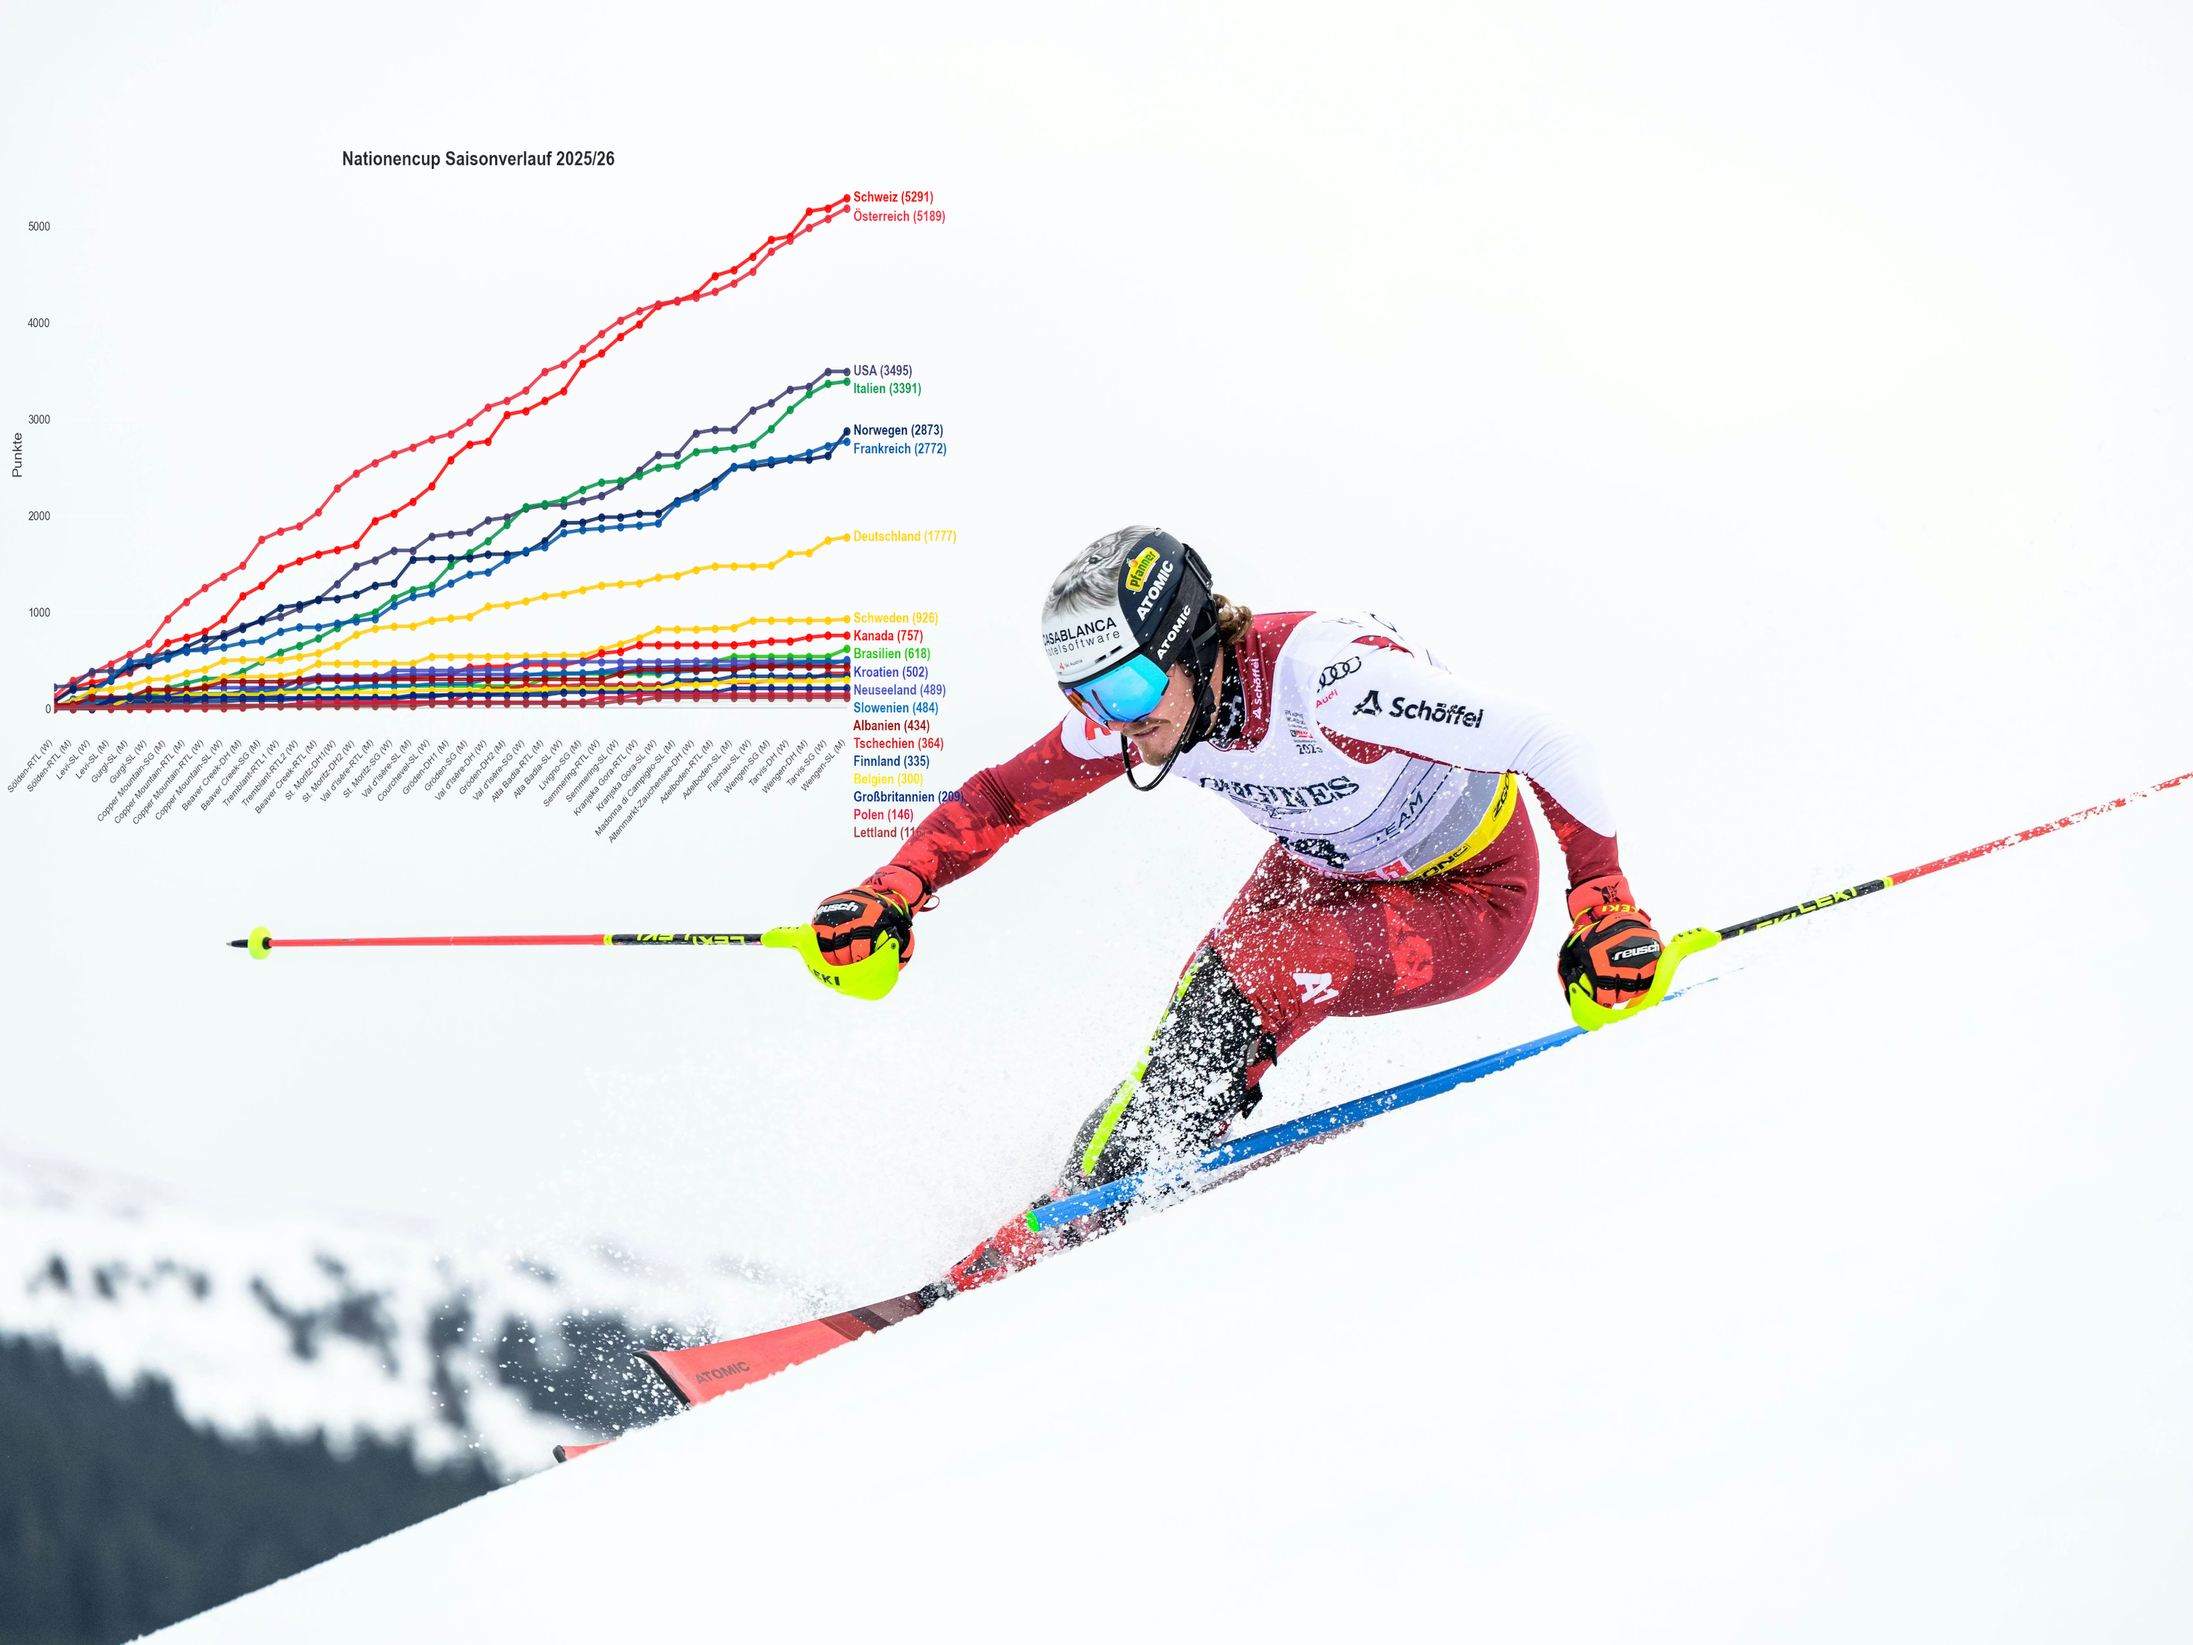
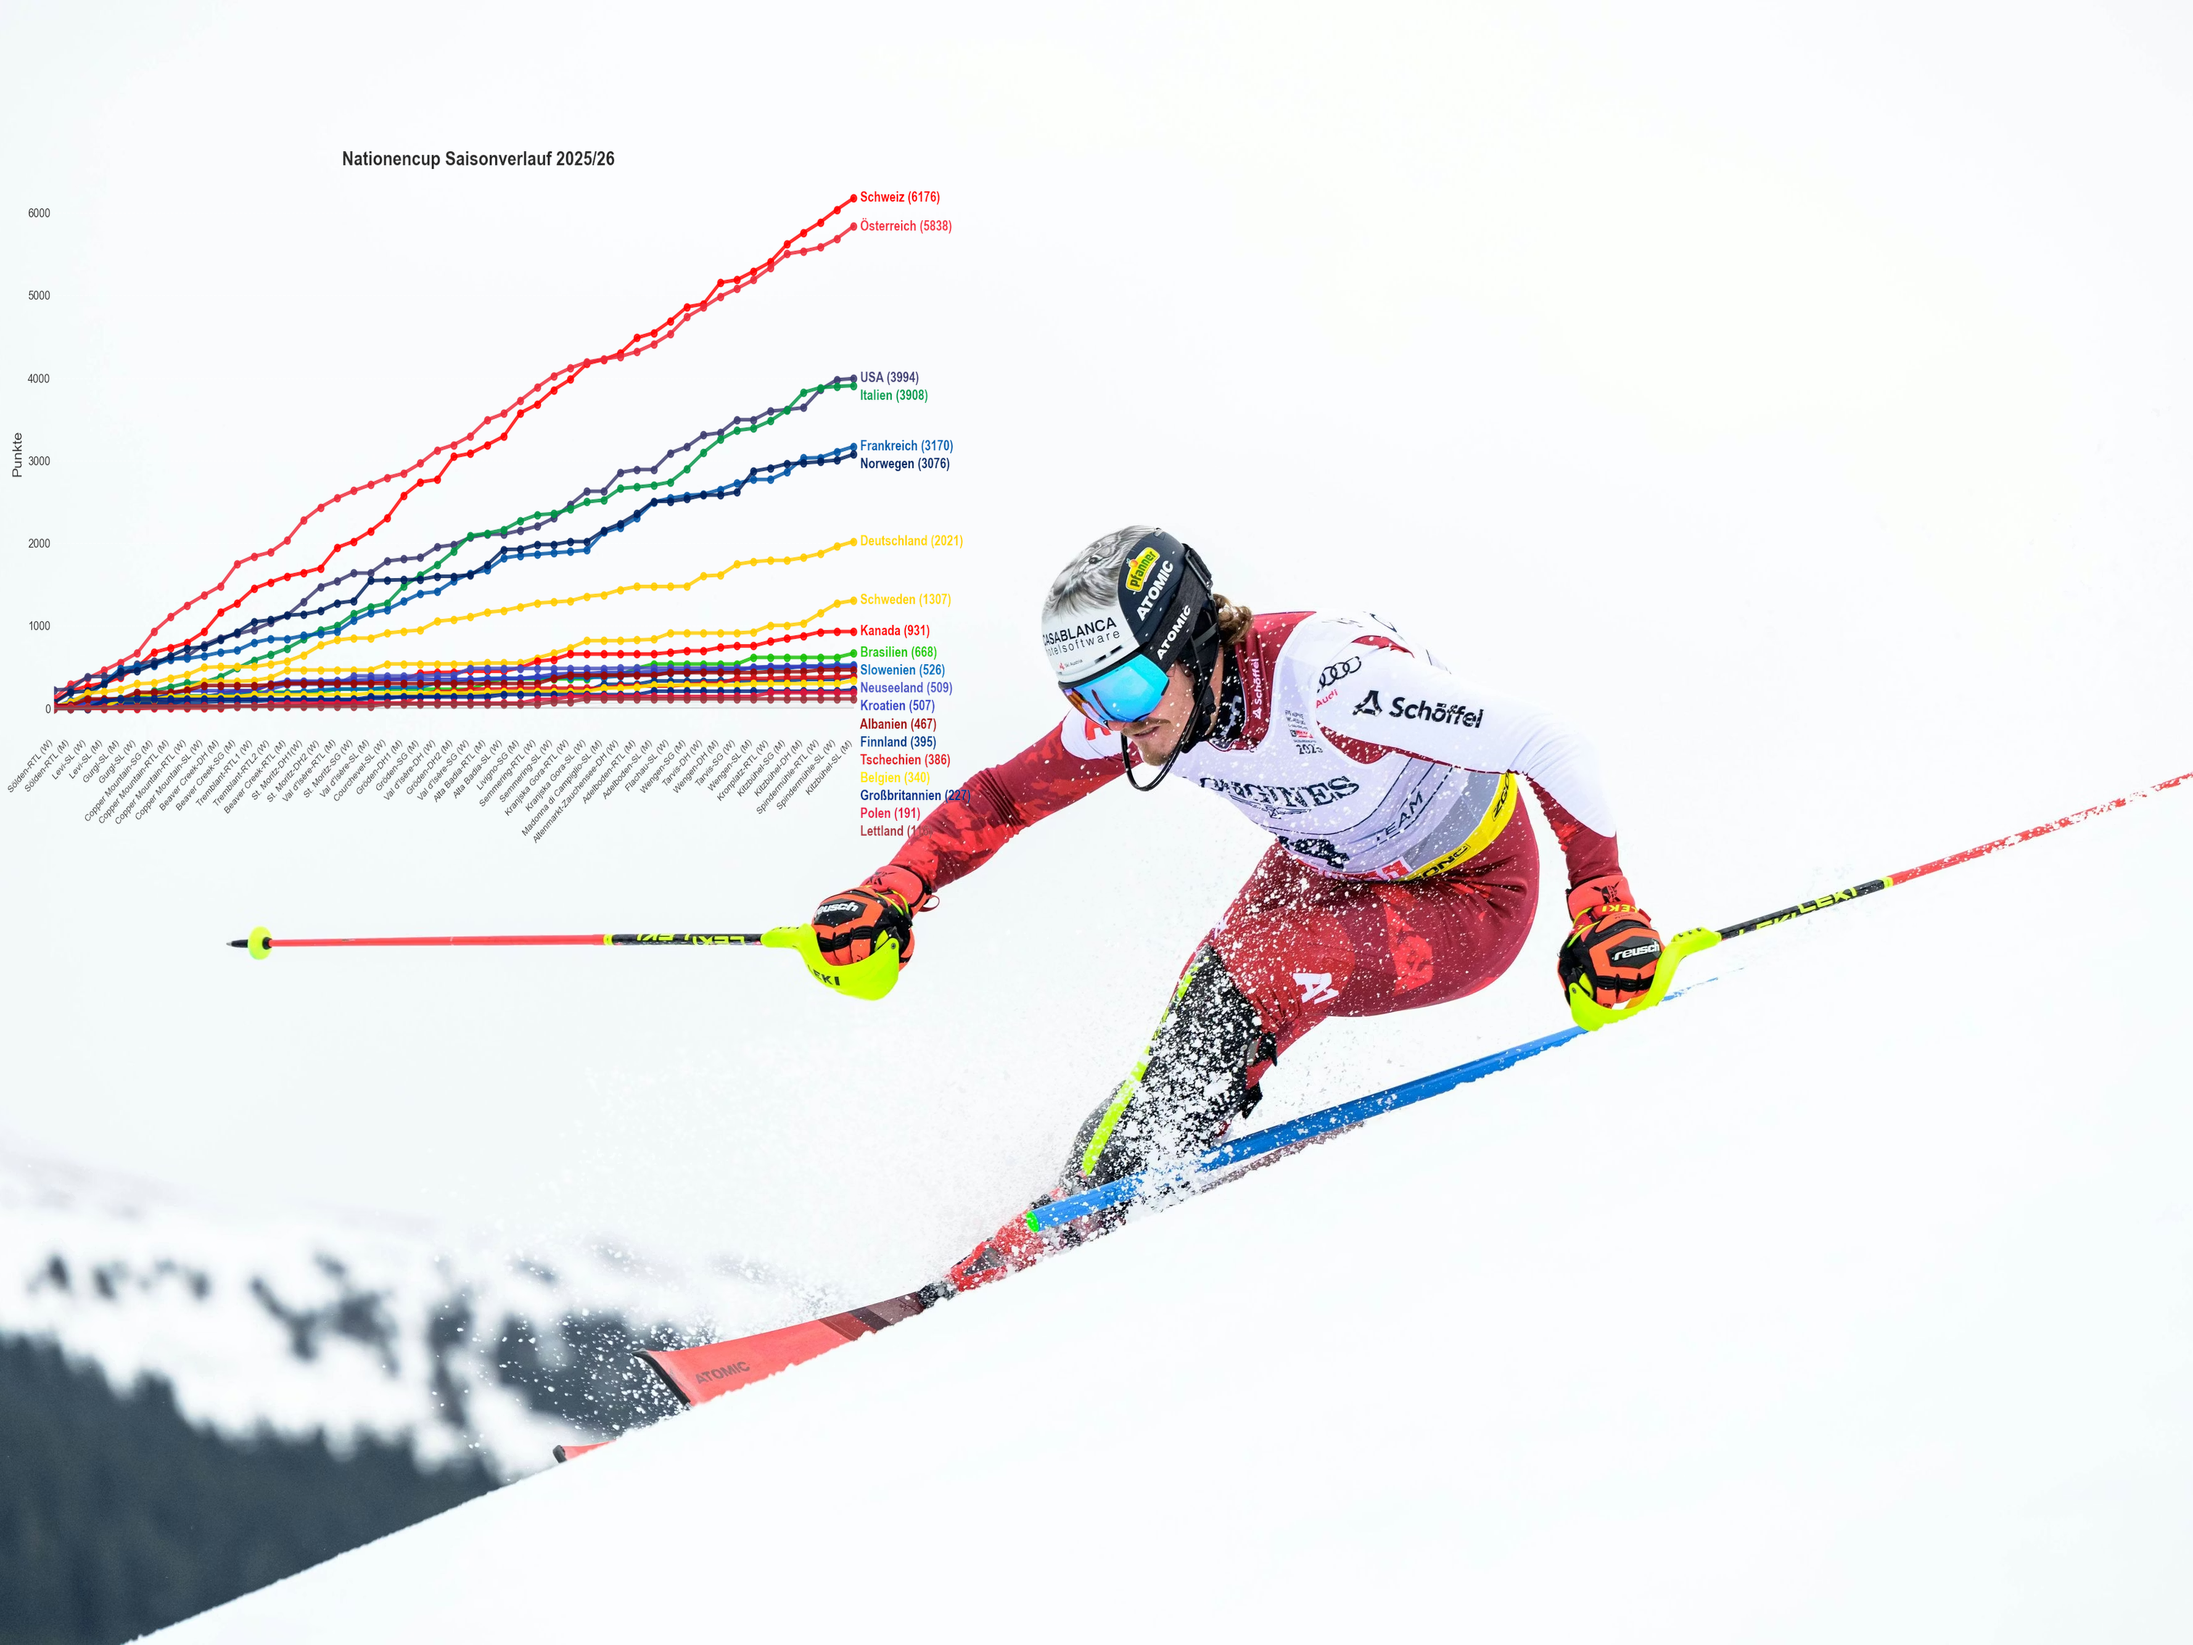
updating races

Changed region(s): [[0.0312, 0.1867, 0.437, 0.4979], [0.3121, 0.0934, 0.437, 0.1867]]

diff --git a/scraper.py b/scraper.py
@@ -31,7 +31,10 @@ else:
 season_races = [
     127331, 127332, 127333, 127334, 127335, 127336,
     127440, 127441, 127442, 127443,
-    127340, 127341, 127342, 127343, 127344, 127347, 127348, 127350, 127349, 127351, 127352, 127339, 127357, 127360, 127356, 127361, 127362, 127363, 127364, 127365, 127366, 127367, 127368, 127369, 127372, 127374, 127375, 127376, 127380, 127385, 127381, 127386, 127382
+    127340, 127341, 127342, 127343, 127344, 127347, 127348, 127350, 127349, 
+    127351, 127352, 127339, 127357, 127360, 127356, 127361, 127362, 127363, 127364, 
+    127365, 127366, 127367, 127368, 127369, 127372, 127374, 127375, 127376, 127380, 
+    127385, 127381, 127386, 127382, 127387, 127391, 127392, 127394, 127395, 127393
 ]
 # Link für die FIS-Seite zum schnelleren Suchen und Hinzufügen neuer IDs: 
 # https://www.fis-ski.com/DB/alpine-skiing/calendar-results.html?eventselection=&place=&sectorcode=AL&seasoncode=2026&categorycode=WC&disciplinecode=&gendercode=&racedate=&racecodex=&nationcode=&seasonmonth=X-2026&saveselection=-1&seasonselection=

diff --git a/ski_nationencup_25-26.py b/ski_nationencup_25-26.py
@@ -94,7 +94,13 @@ RACE_ID_TO_NAME = {
     "127385": "Tarvis-DH (W)",
     "127381": "Wengen-DH (M)",
     "127386": "Tarvis-SG (W)",
-    "127382": "Wengen-SL (M)"
+    "127382": "Wengen-SL (M)",
+    "127387": "Kronplatz-RTL (W)",
+    "127391": "Kitzbühel-SG (M)",
+    "127392": "Kitzbühel-DH (M)",
+    "127394": "Spindermühle-RTL (W)",
+    "127395": "Spindermühle-SL (W)",
+    "127393": "Kitzbühel-SL (M)"
 }
 
 # Liste der Nationen, die beschriftet werden sollen (Namen müssen zum Mapping oben passen)
